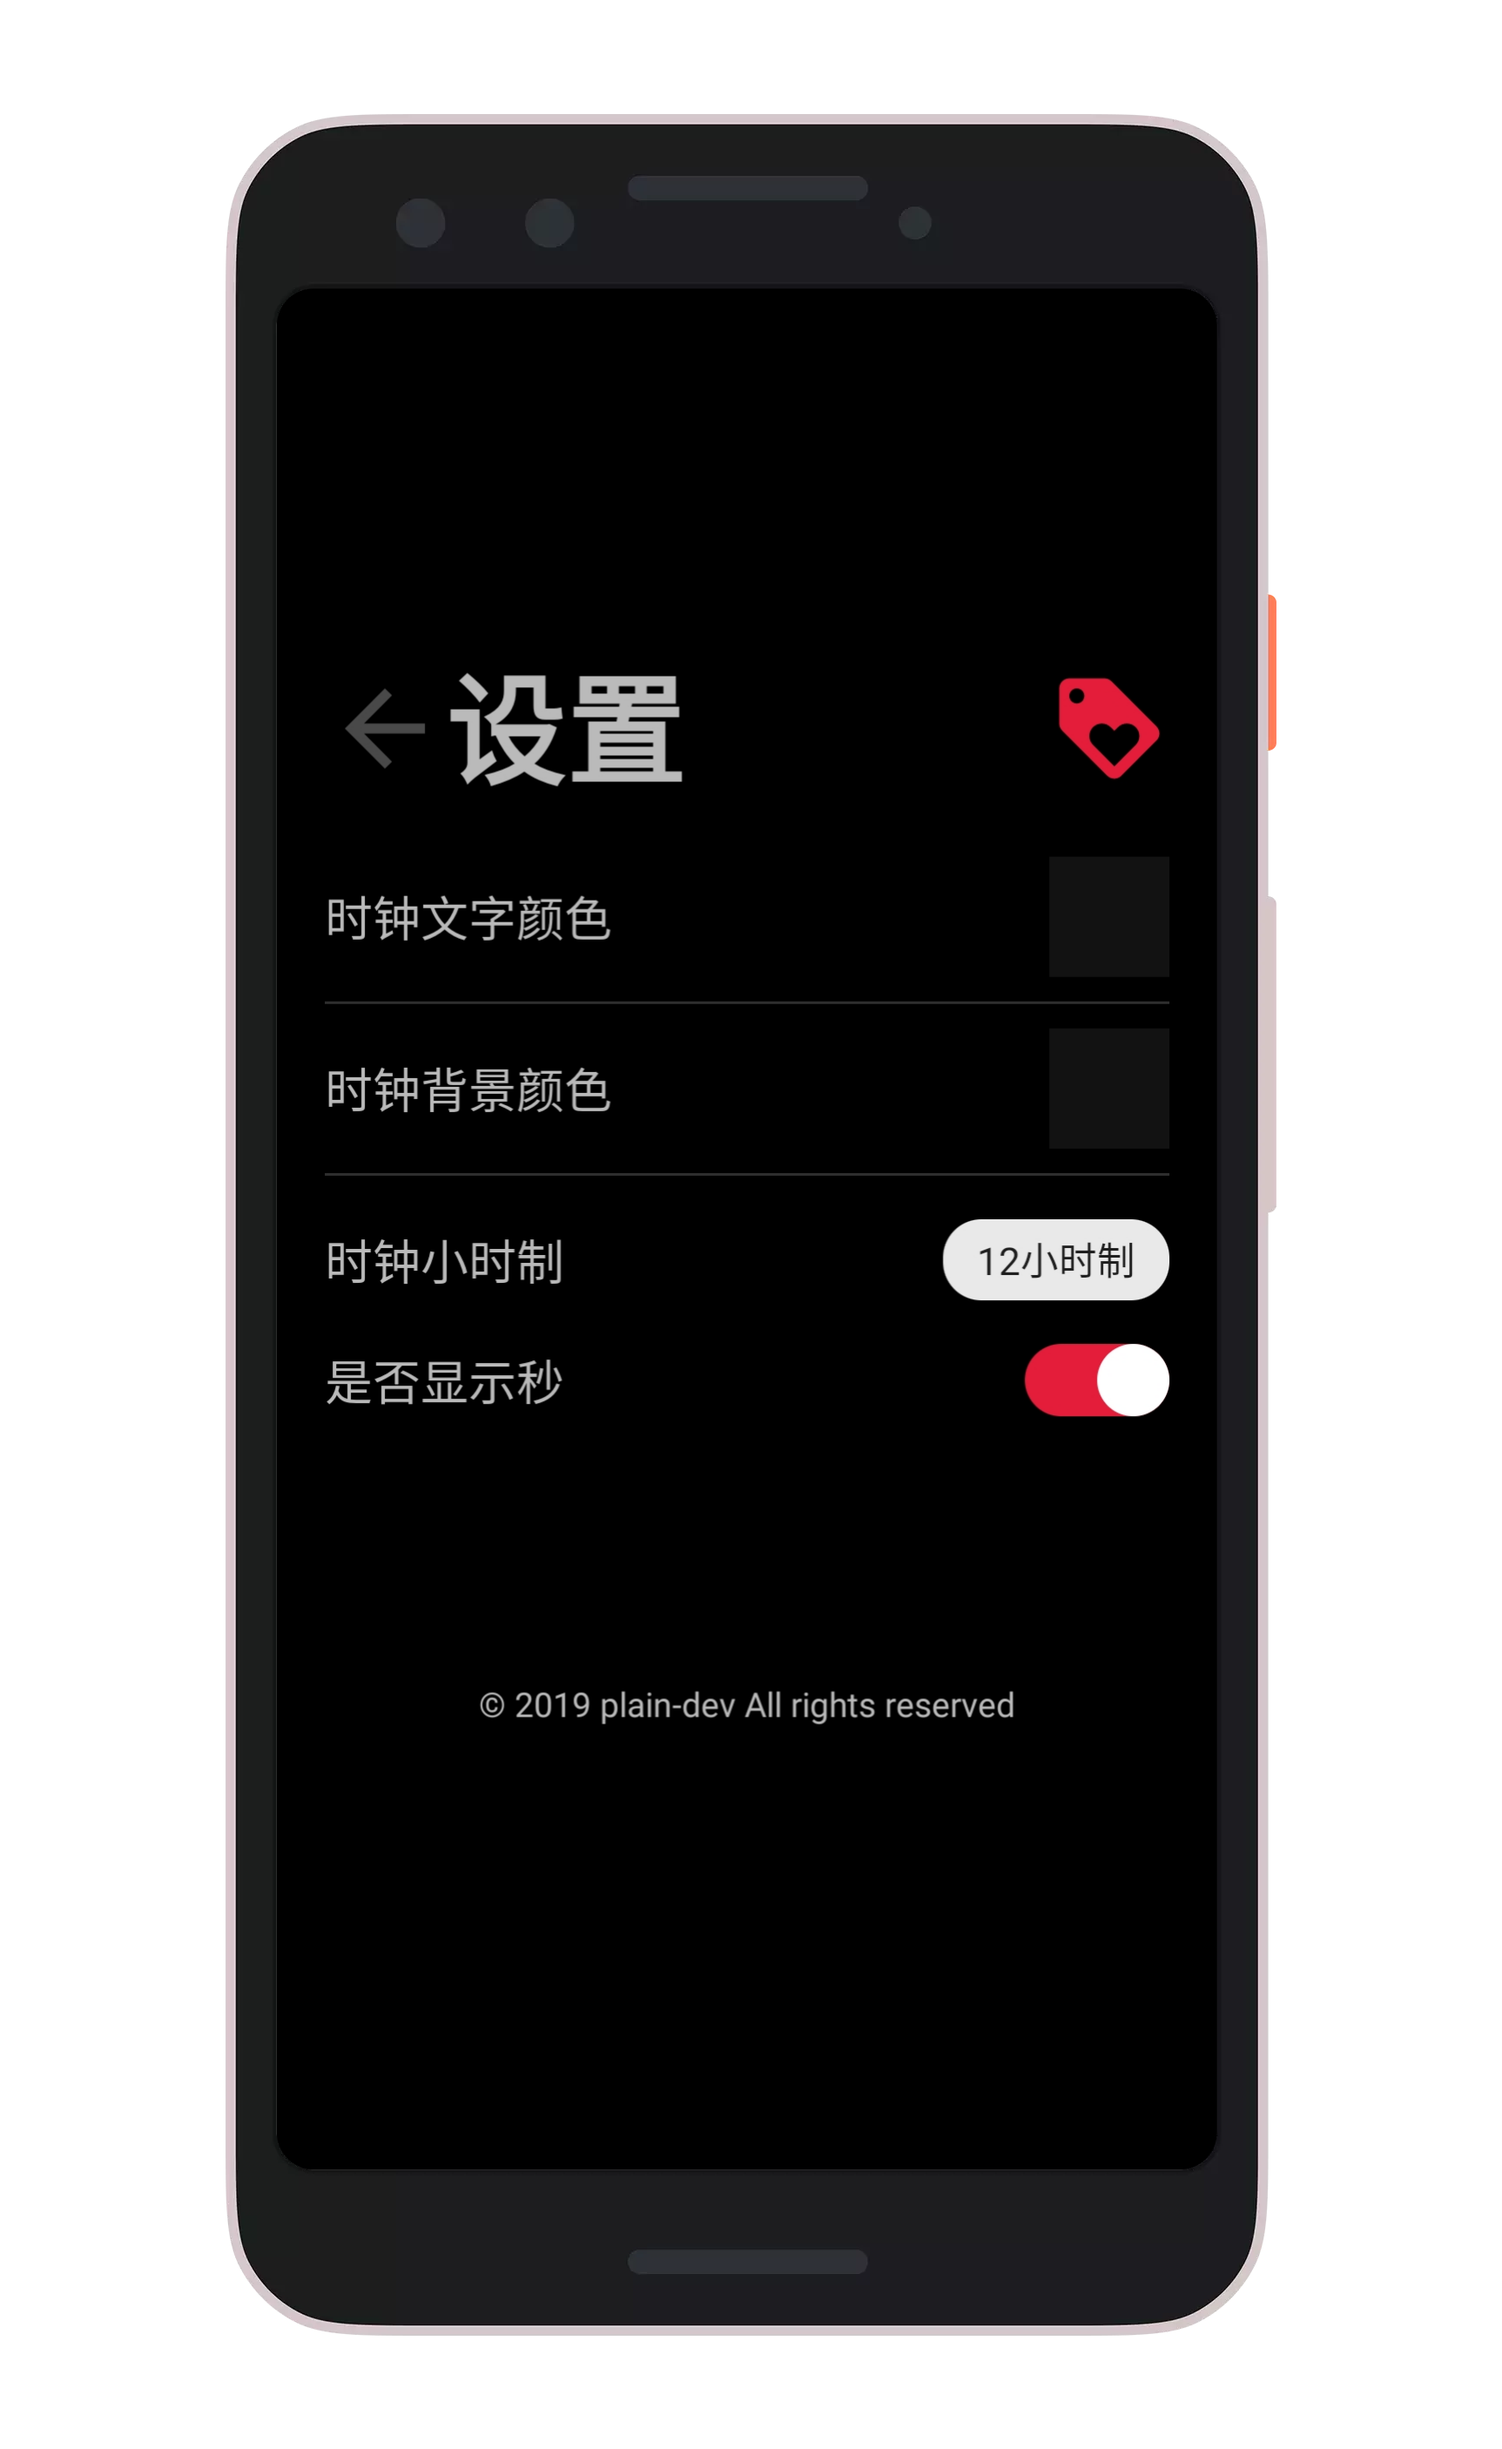
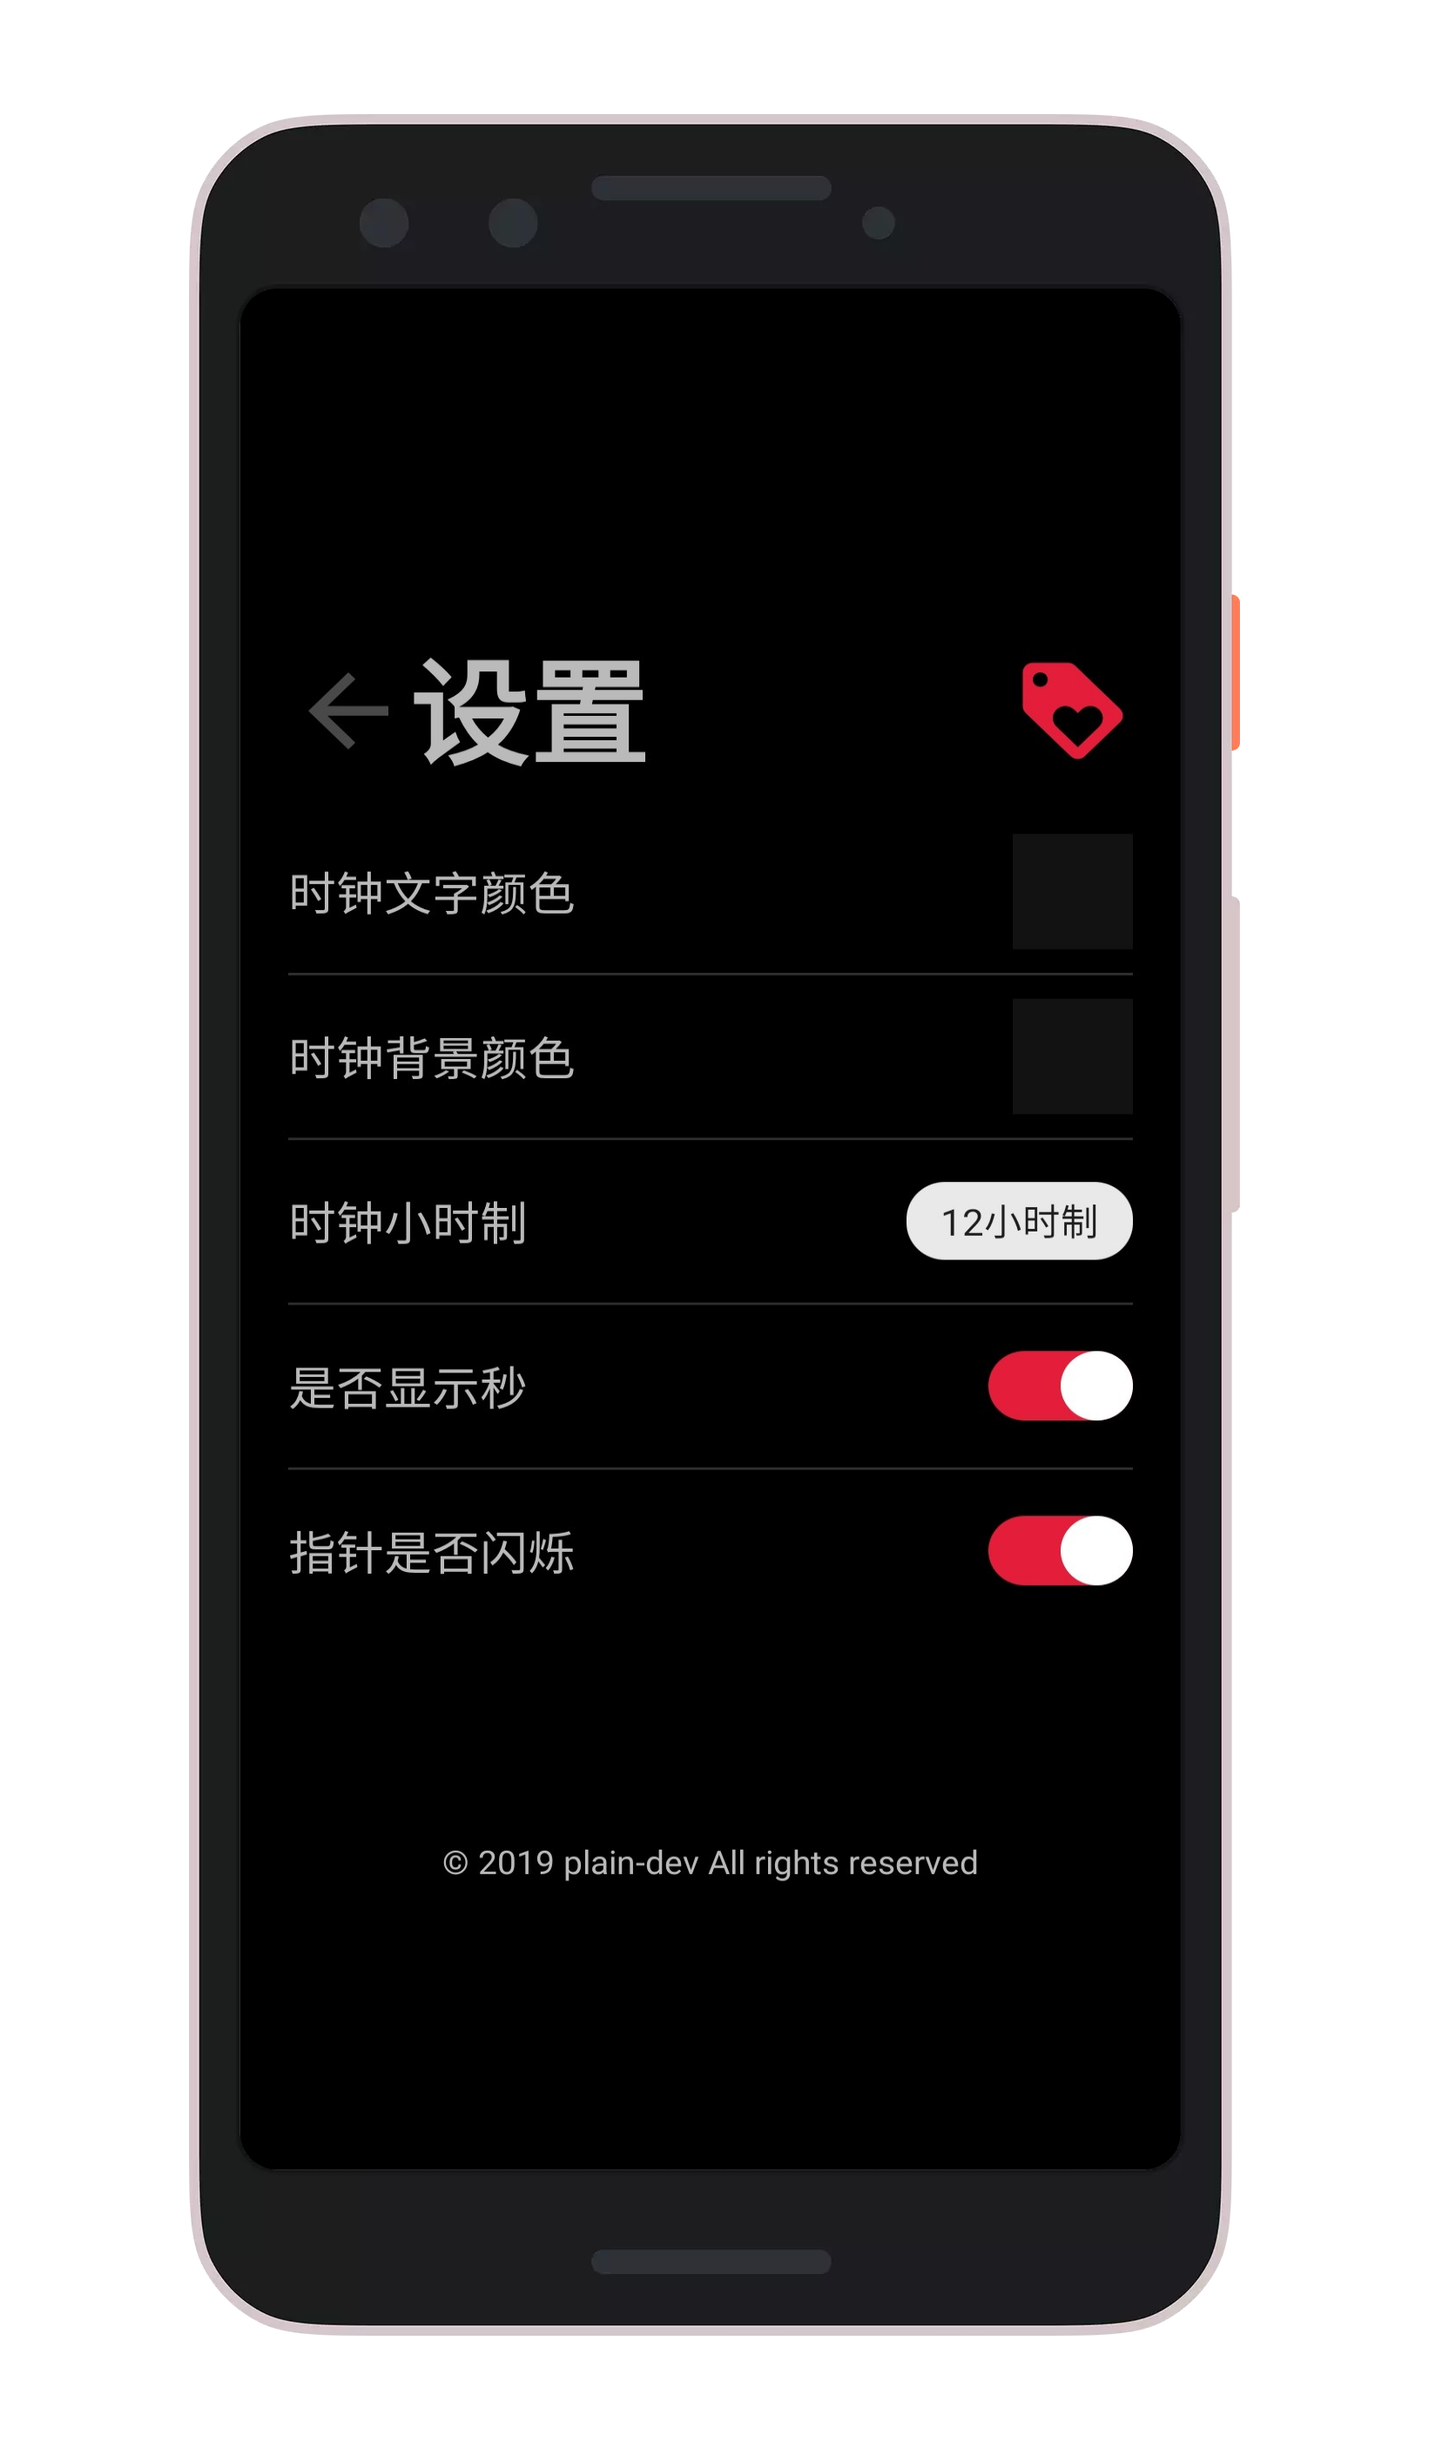
add:时钟指针是否闪烁设置选项

diff --git a/app/src/main/java/com/plain/awesome_clock/view/FlipClockView.kt b/app/src/main/java/com/plain/awesome_clock/view/FlipClockView.kt
@@ -1,17 +1,16 @@
 package com.plain.awesome_clock.view
 
 import android.content.Context
+import android.os.Handler
 import android.os.Looper
 import android.os.Message
 import android.support.v4.content.ContextCompat
-import android.support.v4.view.ViewCompat
 import android.util.AttributeSet
 import android.util.Log
 import android.view.View
 import android.widget.FrameLayout
 import android.widget.LinearLayout
 import android.widget.TextView
-import com.plain.awesome_clock.MainActivity
 
 import com.plain.awesome_clock.R
 import com.plain.awesome_clock.utils.SettingCacheHelper
@@ -19,7 +18,6 @@ import com.xenione.digit.TabDigit
 import kotlinx.android.synthetic.main.layout_flip_clock.view.*
 
 import java.util.Calendar
-import java.util.logging.Handler
 
 /**
  * FlipClockView
@@ -42,8 +40,8 @@ class FlipClockView @JvmOverloads constructor(
     private lateinit var mCharLowHour: TabDigit
     private lateinit var mFlPoint01: FrameLayout
     private lateinit var mFlPoint02: FrameLayout
-    private lateinit var mTvPoint01: TextView
-    private lateinit var mTvPoint02: TextView
+    private lateinit var mTvPoint01: GlintTextView
+    private lateinit var mTvPoint02: GlintTextView
 
     private var mPause = true
     private var elapsedTime: Long = 0
@@ -51,11 +49,11 @@ class FlipClockView @JvmOverloads constructor(
 
     private lateinit var runnable: Runnable
 
-    private val mHandler: android.os.Handler by lazy {
-        object : android.os.Handler(Looper.getMainLooper()) {
+    private val mHandler: Handler by lazy {
+        object : Handler(Looper.getMainLooper()) {
             override fun handleMessage(msg: Message?) {
                 super.handleMessage(msg)
-                if (msg?.what == MSG_TASK || mPause) {
+                if (msg?.what == MSG_TASK && !mPause) {
                     post(runnable)
                 }
             }
@@ -166,6 +164,14 @@ class FlipClockView @JvmOverloads constructor(
     }
 
     /**
+     * 设置指针是否闪烁
+     */
+    fun setFlipClockIsGlint(isGlint:Boolean){
+        mTvPoint01.isGlint = isGlint
+        mTvPoint02.isGlint = isGlint
+    }
+
+    /**
      * 设置时钟是否显示秒
      */
     fun setFlipClockIsShowSecond(isShowSecond: Boolean) {
@@ -218,6 +224,8 @@ class FlipClockView @JvmOverloads constructor(
 
     fun pause() {
         Log.d(TAG, "pause")
+        tvPoint01.pause()
+        tvPoint02.pause()
         mHandler.removeCallbacksAndMessages(null)
         mPause = true
         mCharHighSecond.sync()
@@ -230,6 +238,8 @@ class FlipClockView @JvmOverloads constructor(
 
     fun resume() {
         Log.d(TAG, "resume")
+        tvPoint01.resume()
+        tvPoint02.resume()
         mHandler.removeCallbacksAndMessages(null)
         mPause = false
         val time = Calendar.getInstance()

diff --git a/app/src/main/java/com/plain/awesome_clock/view/GlintTextView.kt b/app/src/main/java/com/plain/awesome_clock/view/GlintTextView.kt
@@ -1,0 +1,99 @@
+package com.plain.awesome_clock.view
+
+import android.content.Context
+import android.os.Handler
+import android.os.Looper
+import android.os.Message
+import android.support.v7.widget.AppCompatTextView
+import android.util.AttributeSet
+import android.util.Log
+import android.view.View
+
+/**
+ * 闪烁的文本
+ *
+ * @author Plain
+ * @date 2019/12/2 11:01 上午
+ */
+class GlintTextView @JvmOverloads constructor(
+    context: Context,
+    attrs: AttributeSet? = null,
+    defStyleAttr: Int = 0
+) : AppCompatTextView(context, attrs, defStyleAttr) {
+
+    var isGlint = false
+        set(value) {
+            field = value
+            stopHandler()
+            startHandler(value)
+        }
+
+    private val runnable by lazy {
+        Runnable {
+            if (!isGlint) {
+                stopHandler()
+                return@Runnable
+            }
+            visibility = View.INVISIBLE
+            mHandler.sendEmptyMessageDelayed(CODE, 500)
+        }
+    }
+
+    private val mHandler: Handler by lazy {
+        object : Handler(Looper.getMainLooper()) {
+            override fun handleMessage(msg: Message?) {
+                super.handleMessage(msg)
+                if (msg?.what == CODE && isGlint) {
+                    visibility = View.VISIBLE
+                    postDelayed(runnable, 500)
+                }
+            }
+        }
+    }
+
+    init {
+        init()
+    }
+
+    private fun init() {
+        stopHandler()
+        startHandler(isGlint)
+    }
+
+    /**
+     * 开始闪烁
+     */
+    private fun startHandler(isGlint: Boolean){
+        if (isGlint) {
+            mHandler.sendEmptyMessage(CODE)
+        }
+    }
+
+    /**
+     * 停止闪烁
+     */
+    private fun stopHandler(){
+        mHandler.removeCallbacksAndMessages(null)
+    }
+
+    /**
+     * 恢复（外部调用）
+     */
+    fun resume(){
+        stopHandler()
+        startHandler(isGlint)
+    }
+
+    /**
+     * 暂停（外部调用）
+     */
+    fun pause() {
+        stopHandler()
+    }
+
+    companion object {
+        private const val TAG = "GlintTextView"
+        private const val CODE = 0x11
+    }
+
+}

diff --git a/app/src/main/java/com/plain/awesome_clock/setting/SettingActivity.kt b/app/src/main/java/com/plain/awesome_clock/setting/SettingActivity.kt
@@ -57,9 +57,9 @@ class SettingActivity : BaseActivity() {
             startActivity(Intent(this@SettingActivity, AboutActivity::class.java))
         }
 
-        swShowSecond.setOnCheckedChangeListener { _, isChecked ->
-            SettingCacheHelper.setClockIsShowSecond(isChecked)
-        }
+        swShowSecond.setOnCheckedChangeListener { _, isChecked -> SettingCacheHelper.setClockIsShowSecond(isChecked) }
+
+        swGlint.setOnCheckedChangeListener { _, isChecked -> SettingCacheHelper.setClockIsGlint(isChecked) }
 
         rlClockTextColorRely.setOnClickListener {
             buildColorPicker(
@@ -146,6 +146,8 @@ class SettingActivity : BaseActivity() {
         )
         //初始化是否显示秒
         swShowSecond.isChecked = SettingCacheHelper.getClockIsShowSecond()
+        //初始化指针是否闪烁
+        swGlint.isChecked = SettingCacheHelper.getClockIsGlint()
     }
 
     private fun buildColorPicker(title: String, type: String, color: Int, view: ImageView) {

diff --git a/app/src/main/java/com/plain/awesome_clock/utils/SettingCacheHelper.kt b/app/src/main/java/com/plain/awesome_clock/utils/SettingCacheHelper.kt
@@ -94,4 +94,25 @@ object SettingCacheHelper {
         return TextUtils.isEmpty(isShowSecond) || isShowSecond == "0"
     }
 
+    /**
+     * 保存时钟指针是否闪烁
+     */
+    fun setClockIsGlint(isGlint: Boolean) {
+        aCache.put(
+            Constant.CLOCK_IS_GLINT, if (isGlint) {
+                "0"
+            } else {
+                "1"
+            }
+        )
+    }
+
+    /**
+     * 获取时钟指针是否闪烁
+     */
+    fun getClockIsGlint(): Boolean {
+        val isGlint = aCache.getAsString(Constant.CLOCK_IS_GLINT)
+        return TextUtils.isEmpty(isGlint) || isGlint == "0"
+    }
+
 }

diff --git a/app/src/main/java/com/plain/awesome_clock/filpClock/FlipClockFragment.kt b/app/src/main/java/com/plain/awesome_clock/filpClock/FlipClockFragment.kt
@@ -79,6 +79,7 @@ class FlipClockFragment : BaseFragment() {
         }
         flipClockView.updateColor(clockTextColor, clockBgColor)
         flipClockView.setFlipClockIsShowSecond(SettingCacheHelper.getClockIsShowSecond())
+        flipClockView.setFlipClockIsGlint(SettingCacheHelper.getClockIsGlint())
     }
 
     override fun onPause() {

diff --git a/app/src/main/java/com/plain/awesome_clock/constant/Constant.kt b/app/src/main/java/com/plain/awesome_clock/constant/Constant.kt
@@ -22,4 +22,6 @@ object Constant {
 
     const val CLOCK_IS_SHOW_SECOND = "clock_is_show_second"
 
+    const val CLOCK_IS_GLINT = "clock_is_glint"
+
 }

diff --git a/README.md b/README.md
@@ -7,7 +7,7 @@
     <img src="https://img.shields.io/badge/language-Kotlin-important.svg?style=flat" alt="language">
   </a>
    <a href="https://github.com/plain-dev/awesome-clock/releases">
-    <img src="https://img.shields.io/badge/release-v1.0.1-blue.svg?style=flat" alt="release">
+    <img src="https://img.shields.io/badge/release-v1.0.2-blue.svg?style=flat" alt="release">
   </a>
    <a href="https://github.com/plain-dev/awesome-clock/blob/master/LICENSE">
     <img src="https://img.shields.io/badge/license-Apache 2-red.svg?style=flat" alt="license">
@@ -54,6 +54,12 @@
 - [国内站点Gitee(推荐)](https://gitee.com/plain-dev/awesome-clock-release/releases)
 
 ### 更新日志
+
+#### v1.0.2
+
+本次更新内容如下
+
+- 新增 时钟指针是否闪烁设置选项
 
 #### v1.0.1
 
